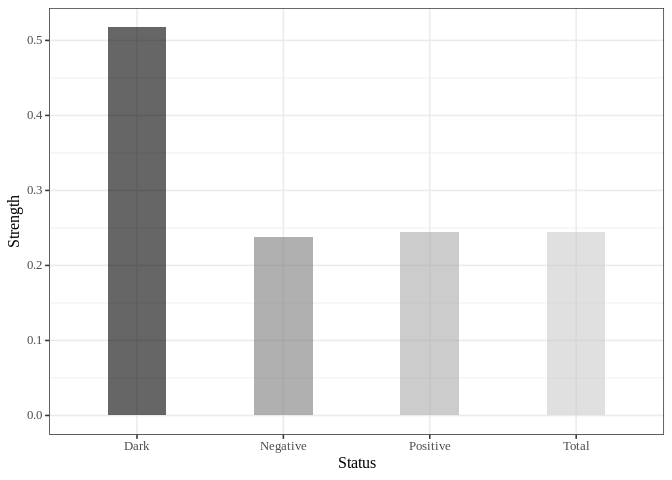
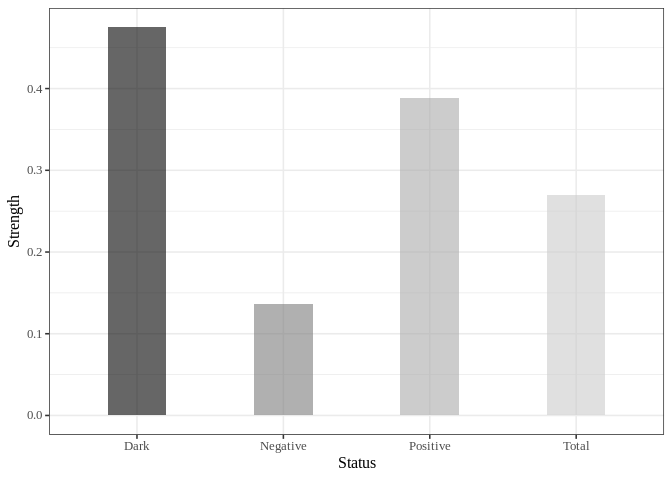
update Readme.md

diff --git a/README.md b/README.md
@@ -47,7 +47,7 @@ Then we need to determine the `E` and `tao`.
 
 ``` r
 dataset <- climate[, -1] # remove the date column
-parameter <- optimalParametersSearch(Emax = 3, tauMax = 3, metric = "euclidean", dataset = dataset)
+parameter <- optimalParametersSearch(Emax = 5, tauMax = 5, metric = "euclidean", dataset = dataset)
 ```
 
 |       |         | Total     | of which Positive | of which Negative | of which Dark |
@@ -68,10 +68,10 @@ causality.
 ``` r
 X <- climate$AO
 Y <- climate$AAO
-pc <- PC.Mk.II.Lightweight(X, Y, E = 3, tau = 1, metric = "euclidean", h = 2, weighted = TRUE)
+pc <- PC.Mk.II.Lightweight(X, Y, E = 3, tau = 2, metric = "euclidean", h = 1, weighted = TRUE)
 print(pc)
-#>       total  positive  negative      dark
-#> 1 0.3140187 0.2371795 0.3846154 0.3782051
+#>       total positive  negative     dark
+#> 1 0.2841121 0.326087 0.2318841 0.442029
 ```
 
 Then the percentage of each status will be showed below.
@@ -111,7 +111,8 @@ We can visualize this stock price.
 Then search the best parameters for the PC.
 
 ``` r
-dataset <- stock
+#dataset <- stock
+dataset <- cbind(stock$AAPL.Close,stock$MSFT.Close)
 parameter <- optimalParametersSearch(Emax = 5, tauMax = 5, metric = "euclidean", dataset = dataset)
 ```
 
@@ -120,10 +121,10 @@ After that, calculate the causality of each status.
 ``` r
 X <- stock$AAPL.Close
 Y <- stock$MSFT.Close
-pc <- PC.Mk.II.Lightweight(X, Y, E = 3, tau = 1, metric = "euclidean", h = 2, weighted = TRUE)
+pc <- PC.Mk.II.Lightweight(X, Y, E = 3, tau = 2, metric = "euclidean", h = 1, weighted = TRUE)
 print(pc)
 #>       total  positive  negative      dark
-#> 1 0.2445206 0.2443325 0.2382872 0.5173804
+#> 1 0.2698665 0.3881279 0.1369863 0.4748858
 ```
 
 Lastly we can also visualize this result.
@@ -152,10 +153,10 @@ After calculating the causality, we can get the result here.
 
 | Pairs         | total     | positive  | negative  | dark      |
 |---------------|-----------|-----------|-----------|-----------|
-| AAPL –\> MSFT | 0.2445206 | 0.2443325 | 0.2382872 | 0.5173804 |
-| MSFT –\> AAPL | 0.237174  | 0.2249351 | 0.2592208 | 0.5158442 |
-| AO –\> AAO    | 0.3140187 | 0.2371795 | 0.3846154 | 0.3782051 |
-| AAO –\> AO    | 0.2934579 | 0.3241379 | 0.1724138 | 0.5034483 |
+| AAPL –\> MSFT | 0.2698665 | 0.3881279 | 0.1369863 | 0.4748858 |
+| MSFT –\> AAPL | 0.2759887 | 0.4075893 | 0.1388393 | 0.4535714 |
+| AO –\> AAO    | 0.2841121 | 0.326087  | 0.2318841 | 0.442029  |
+| AAO –\> AO    | 0.2803738 | 0.3602941 | 0.2647059 | 0.375     |
 
 ## References
 
